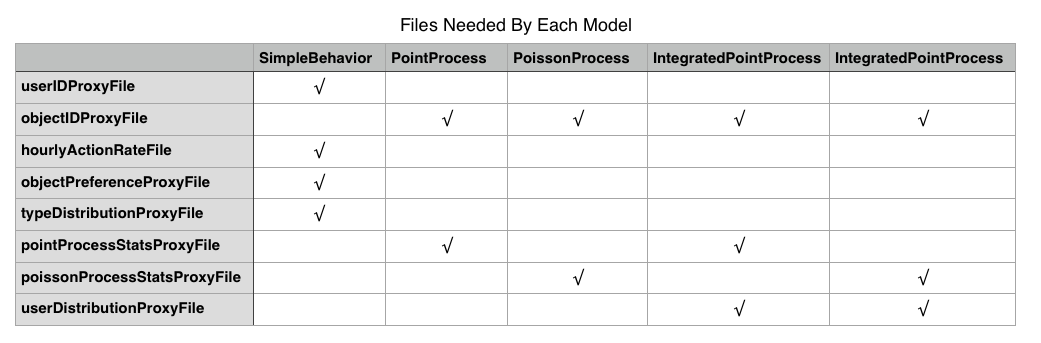
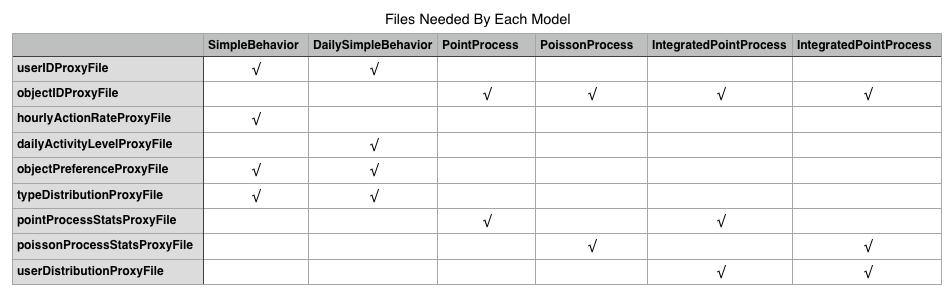
Update run.md

Changed region(s): [[0.0, 0.0307, 1.0, 0.9829]]

diff --git a/doc/run.md b/doc/run.md
@@ -166,6 +166,7 @@ The configruations of two models are seperated by a line break.
 Currently we support model types including:
 
 - SimpleBehavior
+- DailySimpleBehavior
 - PointProcess
 - PoissonProcess
 - IntegratedPointProcess
@@ -176,19 +177,13 @@ So please make sure the model types specified in _ProxyFilePaths.config_ belong 
 And the file paths that can be set include:
 
 - userIDProxyFile
-
 - objectIDProxyFile
-
-- hourlyActionRateFile
-
+- hourlyActionRateProxyFile
+- dailyActivityLevelProxyFile
 - objectPreferenceProxyFile
-
 - typeDistributionProxyFile
-
 - pointProcessStatsProxyFile
-
 - poissonProcessStatsProxyFile
-
 - userDistributionProxyFile
 
 
@@ -202,7 +197,8 @@ For unset file paths, this framework will use default paths to find the correspo
 
 - __userIDProxyFile__: $SOCIALCUBEPATH/statistics/user_id.json
 - __objectIDProxyFile__: $SOCIALCUBEPATH/statistics/obj_id.json
-- __hourlyActionRateFile__: $SOCIALCUBEPATH//statistics/user_action_rate.json
+- __hourlyActionRateProxyFile__: $SOCIALCUBEPATH/statistics/user_action_rate.json
+- __dailyActivityLevelProxyFile__: $SOCIALCUBEPATH/statistics/daily_activity_level.json
 - __objectPreferenceProxyFile__: $SOCIALCUBEPATH/statistics/user_object_preference.json
 - __typeDistributionProxyFile__: $SOCIALCUBEPATH/statistics/user_type_distribution.json
 - __pointProcessStatsProxyFile__: $SOCIALCUBEPATH/statistics/point_stats.json
